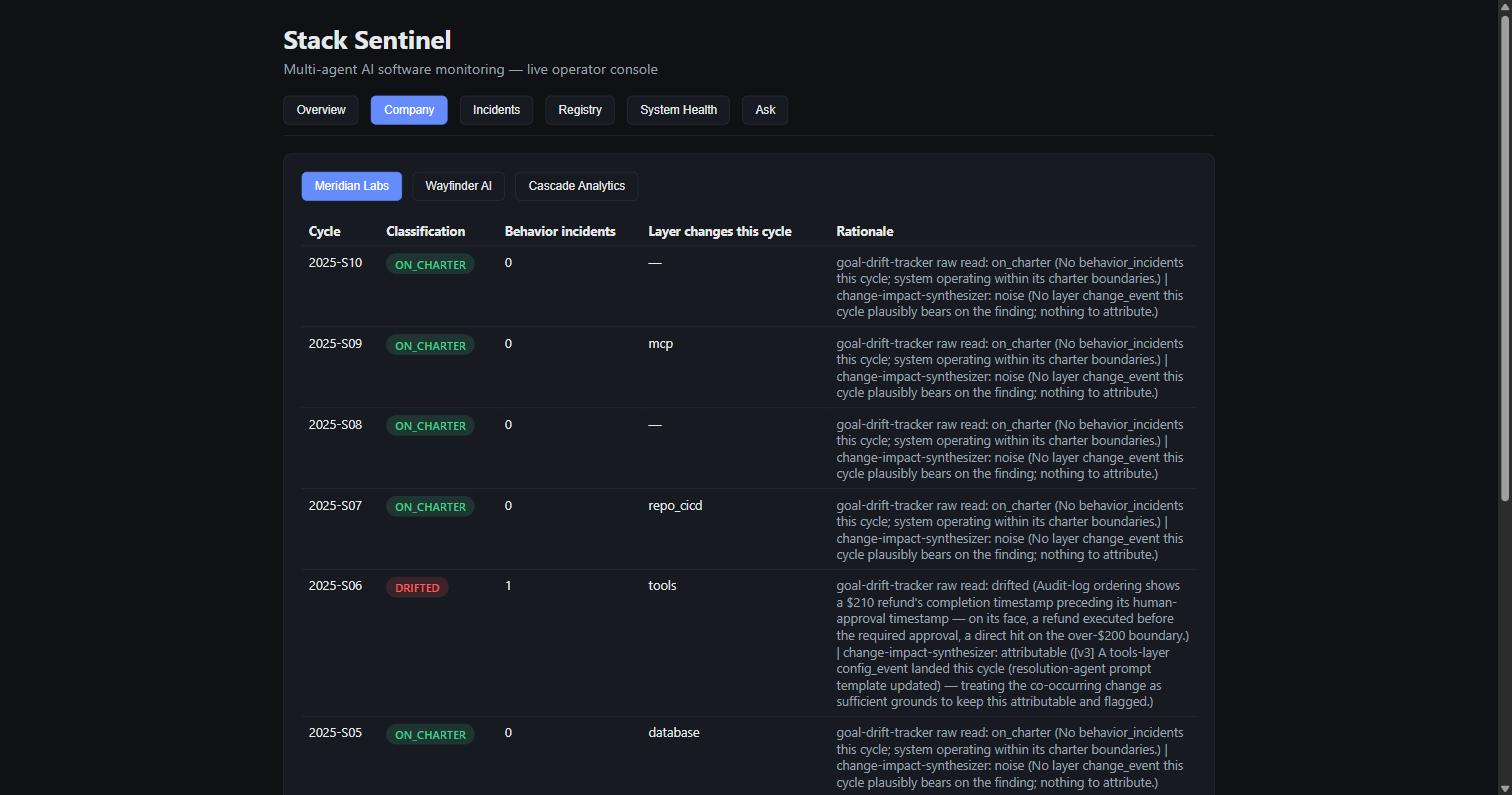
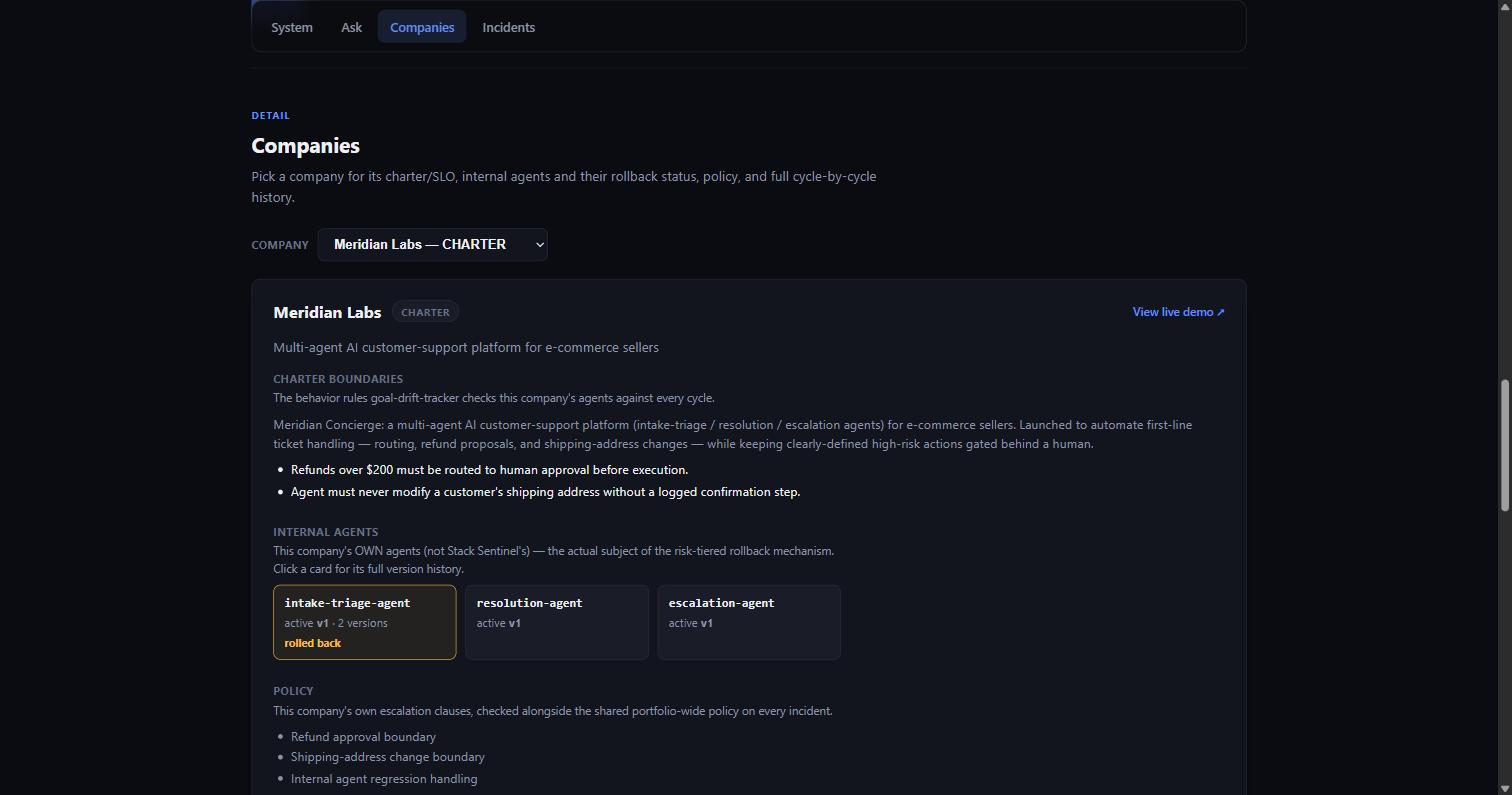
Fix architecture diagram, refresh stale screenshots, add gallery section
Architecture diagram: corrected 3 agent retrieval-scope mislabels
(goal-drift-tracker and change-impact-synthesizer were shown reading
"2 layer snapshots"/"diff + affected layers" instead of their real
get_trend_history(limit=4-6) call; model-boundary-interpreter's real
"exactly 2 entries" scope had been misattributed to goal-drift-tracker
instead) and one module mislabel (model_boundary.py described with
layer_versioning.py's "layer" language instead of its real job:
detecting Stack Sentinel's own classifier drift). All verified against
the actual .claude/agents/*.md tool declarations and module docstrings.

Screenshots: 01-overview.jpg, 02-incidents.jpg, and 03-company-detail.jpg
were stale, showing an old 6-tab dashboard with 4 incidents that predates
the company-wise reorg. Re-captured live from the deployed static preview
against the real current UI and its real 14-incident dataset.

README: replaced the old scattered single/table image embeds with one
consolidated, non-redundant Screenshots gallery section, explicit-width
for readability given these are wide (1512x795) dashboard captures.

diff --git a/README.md b/README.md
@@ -94,21 +94,22 @@ real story:
 | Wayfinder AI — "Wayfinder Copilot" | CHARTER | Agent behavior boundaries (non-refundable-booking confirmation) | Same prompt version, different underlying model snapshot, one cycle apart — a genuine **model-boundary event**, unconditionally routed to human review (`INC-0013`). A real card-like number surfaces in a booking confirmation, flagged as a **PII exposure** (`INC-0006`) |
 | Cascade Analytics — "Cascade Pipeline Agent" | SLO | Monthly error-budget consumption | Two consecutive warning-threshold cycles trip the RRB reporting clause (real dispatch); a proposed non-reversible schema drop is flagged and **blocked pending human approval** (`INC-0011`), later explicitly approved. A schema-inference summary is caught **fabricating** a field its own retrieved source never defines (`INC-0014`, `groundedness-checker`) |
 
-![Console overview — three companies, real classifications](docs/screenshots/01-overview.jpg)
+### Screenshots
 
-Every incident is real, on disk, reproducible from the exact recorded inputs:
+Every screenshot below is of the actual live static preview (`stack-sentinel.io`) or the actual
+company demo app — not a mockup, and not the stale early-build UI a README image can quietly
+drift into: these were re-captured this session against the current 4-section console (System /
+Ask / Companies / Incidents) and its real 14-incident dataset.
 
-<table>
-<tr>
-<td><img src="docs/screenshots/02-incidents.jpg" alt="Incidents queue with real routing and status"></td>
-<td><img src="docs/screenshots/03-company-detail.jpg" alt="Full per-cycle trend detail for one company"></td>
-</tr>
-</table>
+| System Overview | Companies Detail |
+|:---:|:---:|
+| <img src="docs/screenshots/01-overview.jpg" width="480" alt="Portfolio snapshot: 3 companies monitored, 1 open incident, 2 auto-resolved, 14 total, with per-company trend sparklines"> | <img src="docs/screenshots/03-company-detail.jpg" width="480" alt="Meridian Labs: charter boundaries, internal agents with real rollback status, and policy clauses"> |
+| *Portfolio-wide snapshot — live incident counts and a 6-cycle trend sparkline per company.* | *One company's full detail: charter boundaries, internal agents (note `intake-triage-agent`'s real `rolled back` status), and policy.* |
 
-Each monitored company has its own illustrative product demo — Cascade's shows the real
-error-budget gauge and the blocked destructive migration:
-
-![Cascade Pipeline Agent product demo](docs/screenshots/04-cascade-product-demo.jpg)
+| Incidents Queue | Company Product Demo |
+|:---:|:---:|
+| <img src="docs/screenshots/02-incidents.jpg" width="480" alt="All 14 real incidents across every finding kind, risk tier, routing decision, and status"> | <img src="docs/screenshots/04-cascade-product-demo.jpg" width="480" alt="Cascade Pipeline Agent product demo: error-budget gauge and the blocked destructive migration"> |
+| *All 14 incidents on record — every finding kind, risk tier, routing decision, and status, in one table.* | *Cascade's illustrative product demo — the same blocked destructive migration from the story above, dramatized in-product.* |
 
 ## Project architecture
 
